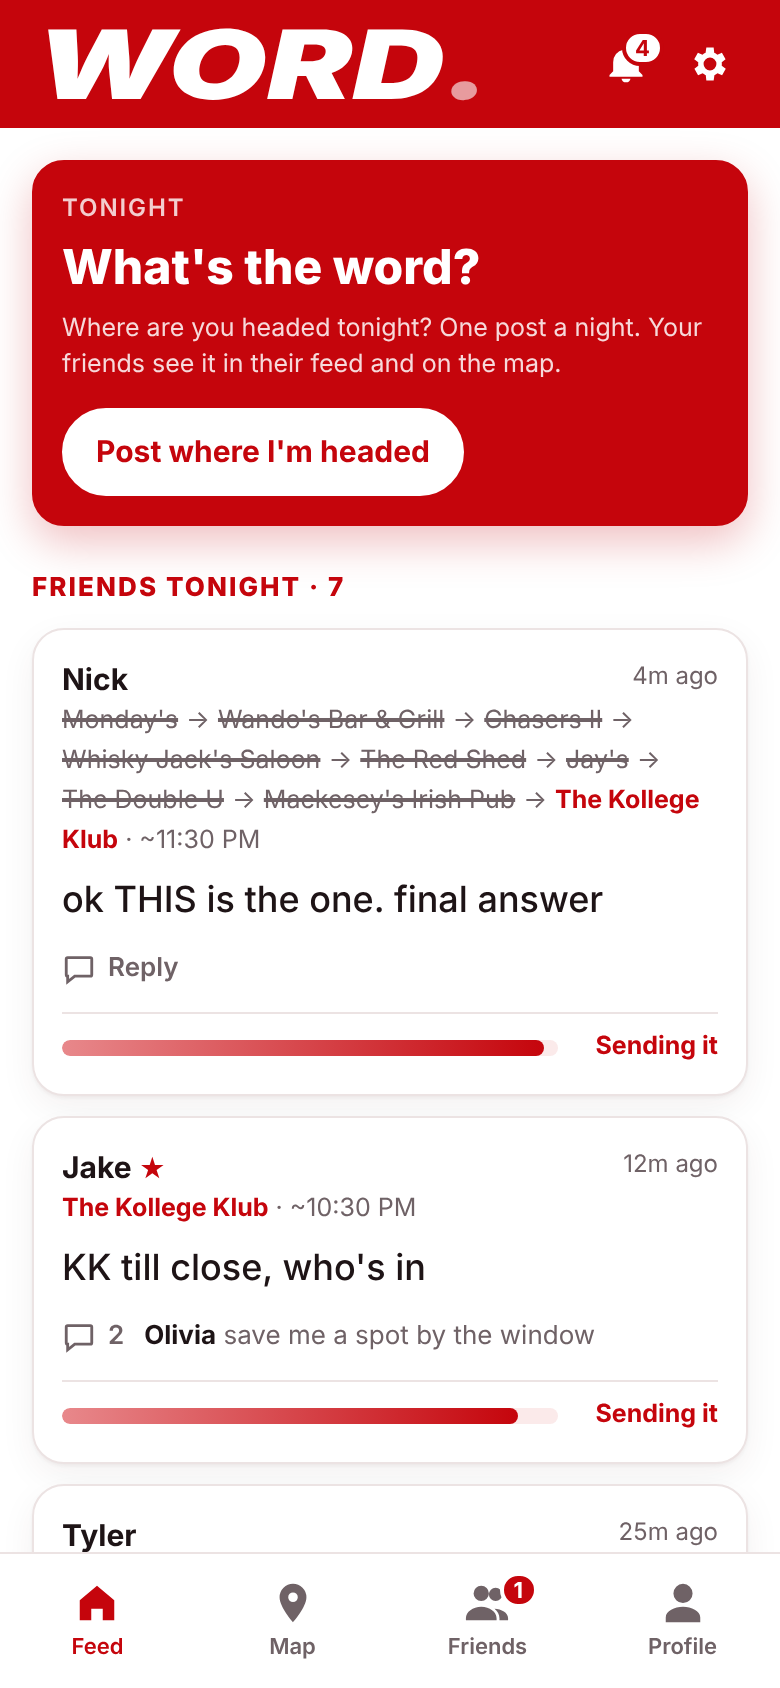
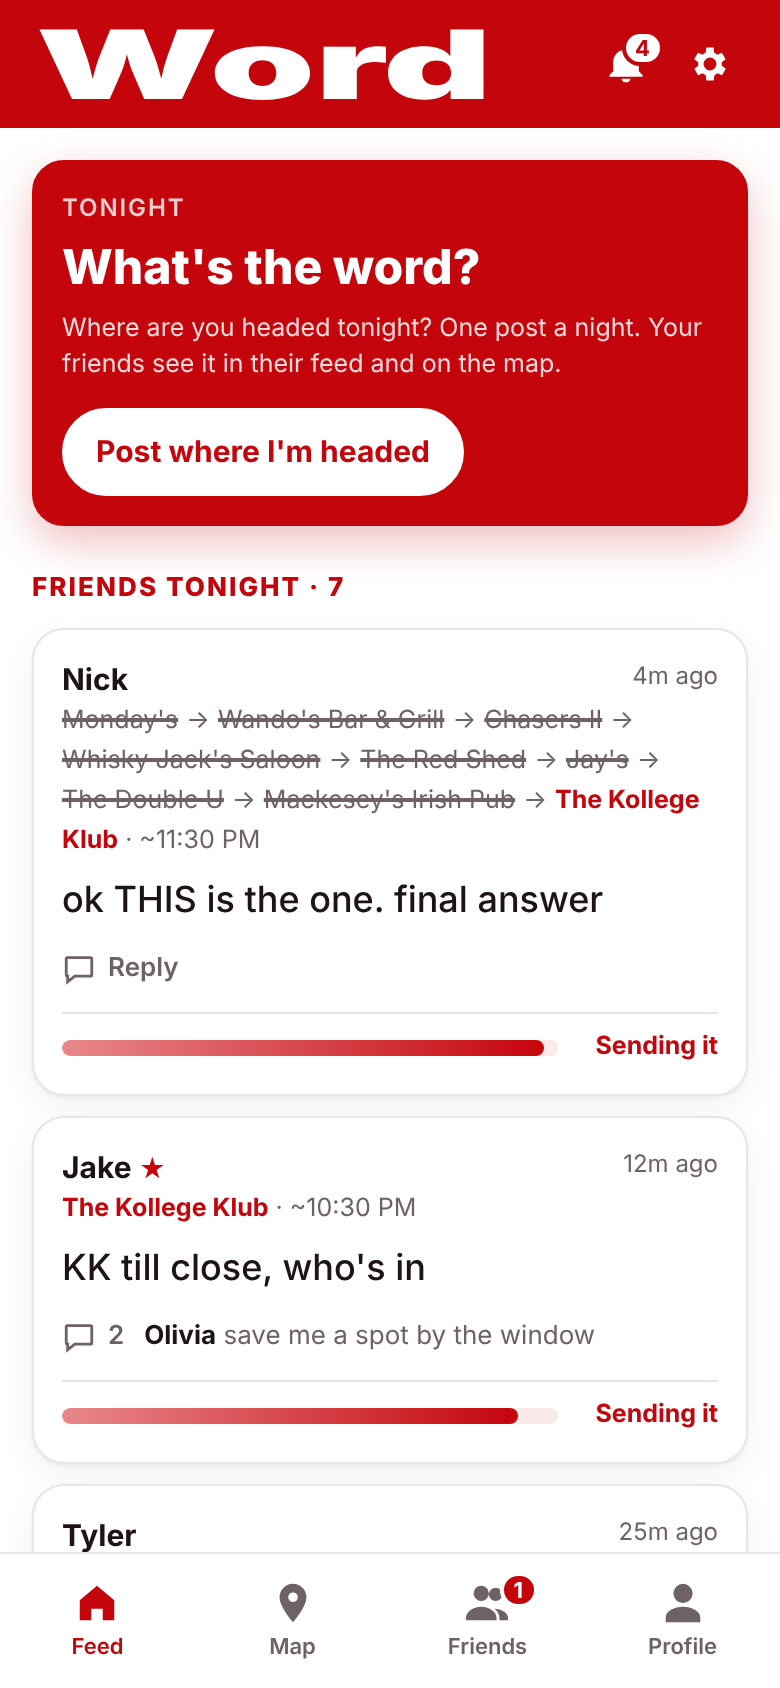
Wordmark: "Word", upright, no period
Claude-Session: https://claude.ai/code/session_01LsgwHYcrkn2rvmvnVgPXbN

Changed region(s): [[0.0615, 0.0, 0.6462, 0.0616]]

diff --git a/styles.css b/styles.css
@@ -33,11 +33,10 @@ button { cursor: pointer; }
 .topbar { height: calc(var(--topbar-h) + env(safe-area-inset-top)); display: flex; align-items: center;
   justify-content: space-between; padding: env(safe-area-inset-top) 16px 0; background: var(--red);
   color: var(--white); position: relative; z-index: 500; }
-/* Wordmark (Sam, 2026-11-18): big, extra-bold, stretched across most of the bar. */
+/* Wordmark (Sam, 2026-11-18): "Word", upright, no period, extra-bold, stretched across most of the bar. */
 .brand { flex: 1; min-width: 0; margin: 0 14px 0 0; height: 46px; display: flex; align-items: center; }
 .brand svg { width: 100%; height: 100%; overflow: visible; }
-.brand text { font-family: var(--display); font-weight: 900; font-size: 52px; font-style: italic; fill: var(--white); }
-.brand .dot { fill: var(--white); opacity: .6; }
+.brand text { font-family: var(--display); font-weight: 900; font-size: 52px; fill: var(--white); }
 .viewas { display: flex; align-items: center; justify-content: space-between; gap: 10px; font-size: 14px; color: var(--muted); padding: 12px 16px; margin-bottom: 18px; }
 .viewas select { background: var(--surface); border: 1px solid var(--line); color: var(--text); font-weight: 600;
   border-radius: 999px; padding: 6px 12px; font-size: 14px; }

diff --git a/index.html b/index.html
@@ -16,7 +16,7 @@
     <header class="topbar">
       <h1 class="brand" aria-label="Word">
         <svg viewBox="0 0 260 50" preserveAspectRatio="xMinYMid meet" aria-hidden="true">
-          <text x="2" y="44" textLength="248" lengthAdjust="spacingAndGlyphs">WORD<tspan class="dot">.</tspan></text>
+          <text x="2" y="44" textLength="248" lengthAdjust="spacingAndGlyphs">Word</text>
         </svg>
       </h1>
       <div class="top-actions">
